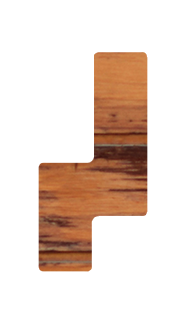
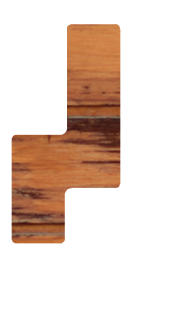
- Added Snapping System and Added a title to the game (Time Matrix)

diff --git a/NTEK_CalendarPuzzle/Assets/Scripts/In-Game Scripts/Dragging.cs b/NTEK_CalendarPuzzle/Assets/Scripts/In-Game Scripts/Dragging.cs
@@ -4,6 +4,10 @@ using UnityEngine;
 
 public class Dragging : MonoBehaviour
 {
+    public delegate void DragEndedDelegate(Dragging DraggingObject);
+
+    public DragEndedDelegate dragEndedCallback;
+
     private Vector3 mouseDragStartPosition;
     private Vector3 spriteDragStartPosition;
     private Vector2 initialPos;
@@ -13,6 +17,11 @@ public class Dragging : MonoBehaviour
     [SerializeField]private AudioSource FinalClickSound;
     [SerializeField]private AudioSource FailClickSound;
     private WinCondition winCondition;
+
+    public bool isFlippedX()
+    {
+        return true;
+    }
 
     private void Start()
     {
@@ -25,14 +34,14 @@ public class Dragging : MonoBehaviour
         initialPos = transform.position;
         isDragged = true;
         mouseDragStartPosition = Camera.main.ScreenToWorldPoint(Input.mousePosition);
-        spriteDragStartPosition = transform.localPosition;
+        spriteDragStartPosition = transform.position;
     }
 
     private void OnMouseDrag()
     {
         if (isDragged)
         {
-            transform.localPosition = spriteDragStartPosition + (Camera.main.ScreenToWorldPoint(Input.mousePosition) - mouseDragStartPosition);
+            transform.position = spriteDragStartPosition + (Camera.main.ScreenToWorldPoint(Input.mousePosition) - mouseDragStartPosition);
         }
         
     }
@@ -53,6 +62,7 @@ public class Dragging : MonoBehaviour
             isWalled = false; // Reset the flag after returning to the initial position
         }
         winCondition.Winning();
+        dragEndedCallback(this);
     }
 
     private void OnTriggerEnter2D(Collider2D other)

diff --git a/NTEK_CalendarPuzzle/Assets/Scripts/In-Game Scripts/SnapController.cs b/NTEK_CalendarPuzzle/Assets/Scripts/In-Game Scripts/SnapController.cs
@@ -1,0 +1,39 @@
+using System.Collections;
+using System.Collections.Generic;
+using UnityEngine;
+
+public class SnapController : MonoBehaviour
+{
+    public List<Transform> snapPoints;
+    public List<Dragging> DraggingObjects;
+    public float snapRange = 0.5f;
+    // Start is called before the first frame update
+    void Start()
+    {
+        foreach(Dragging dragging in DraggingObjects)
+        {
+            dragging.dragEndedCallback = OnDragEnded;
+        }
+    }
+
+    private void OnDragEnded(Dragging dragging)
+    {
+        float closestDistance = -1;
+        Transform closestSnapPoint = null;
+
+        foreach(Transform snapPoint in snapPoints)
+        {
+            float currentDistance = Vector2.Distance(dragging.transform.position, snapPoint.position);
+            if (closestSnapPoint == null || currentDistance < closestDistance)
+            {
+                closestSnapPoint = snapPoint;
+                closestDistance = currentDistance;
+            }
+        }
+
+        if (closestSnapPoint != null && closestDistance <= snapRange)
+        {
+            dragging.transform.position = closestSnapPoint.position;
+        }
+    }
+}
